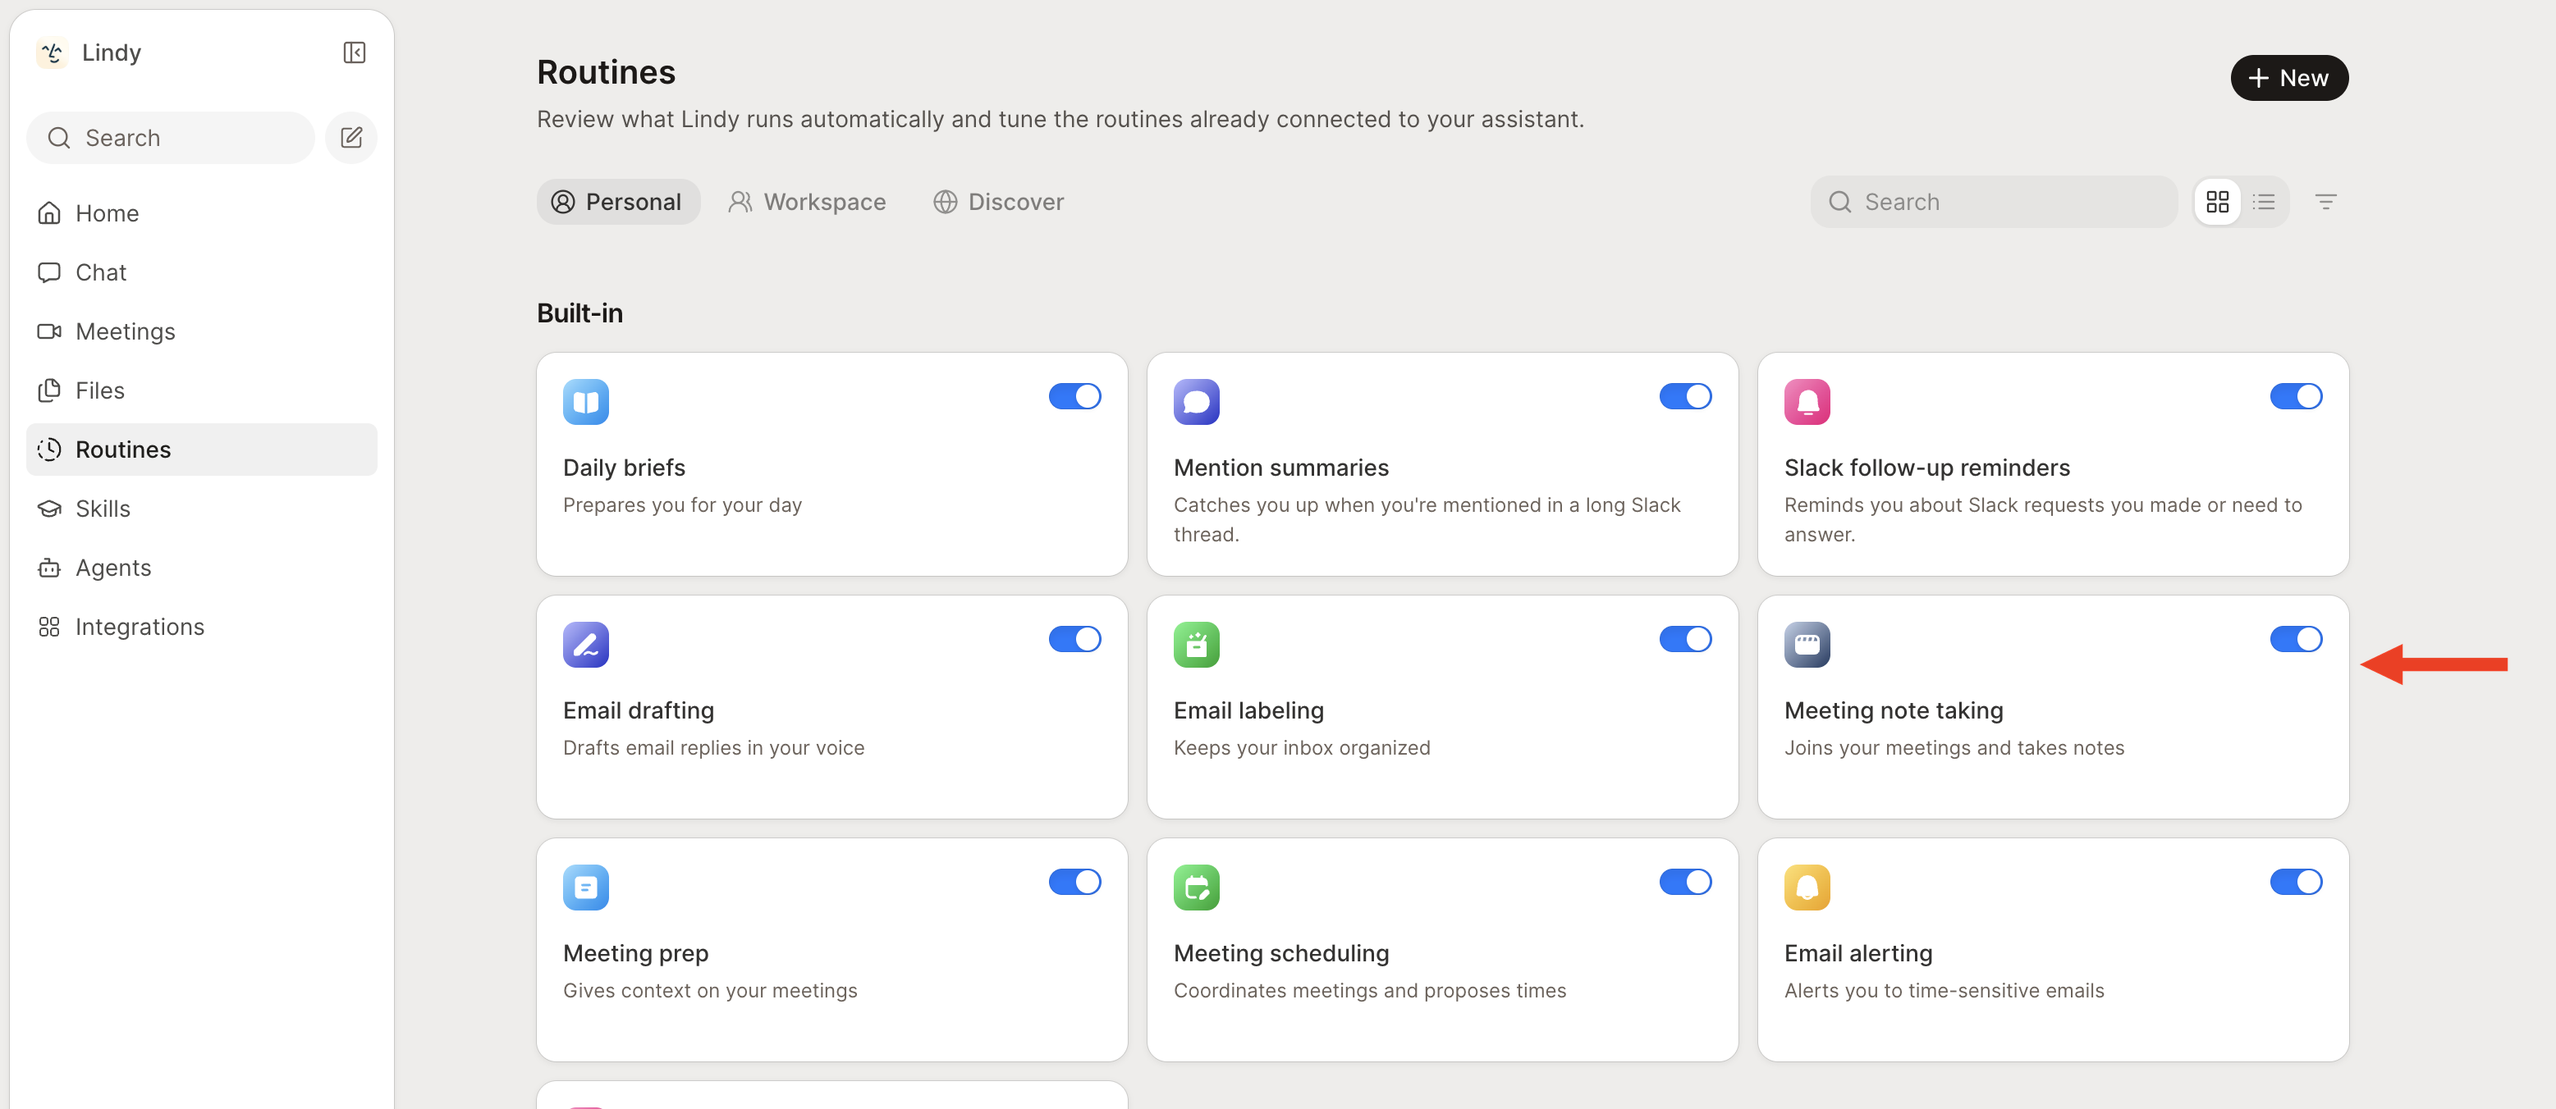
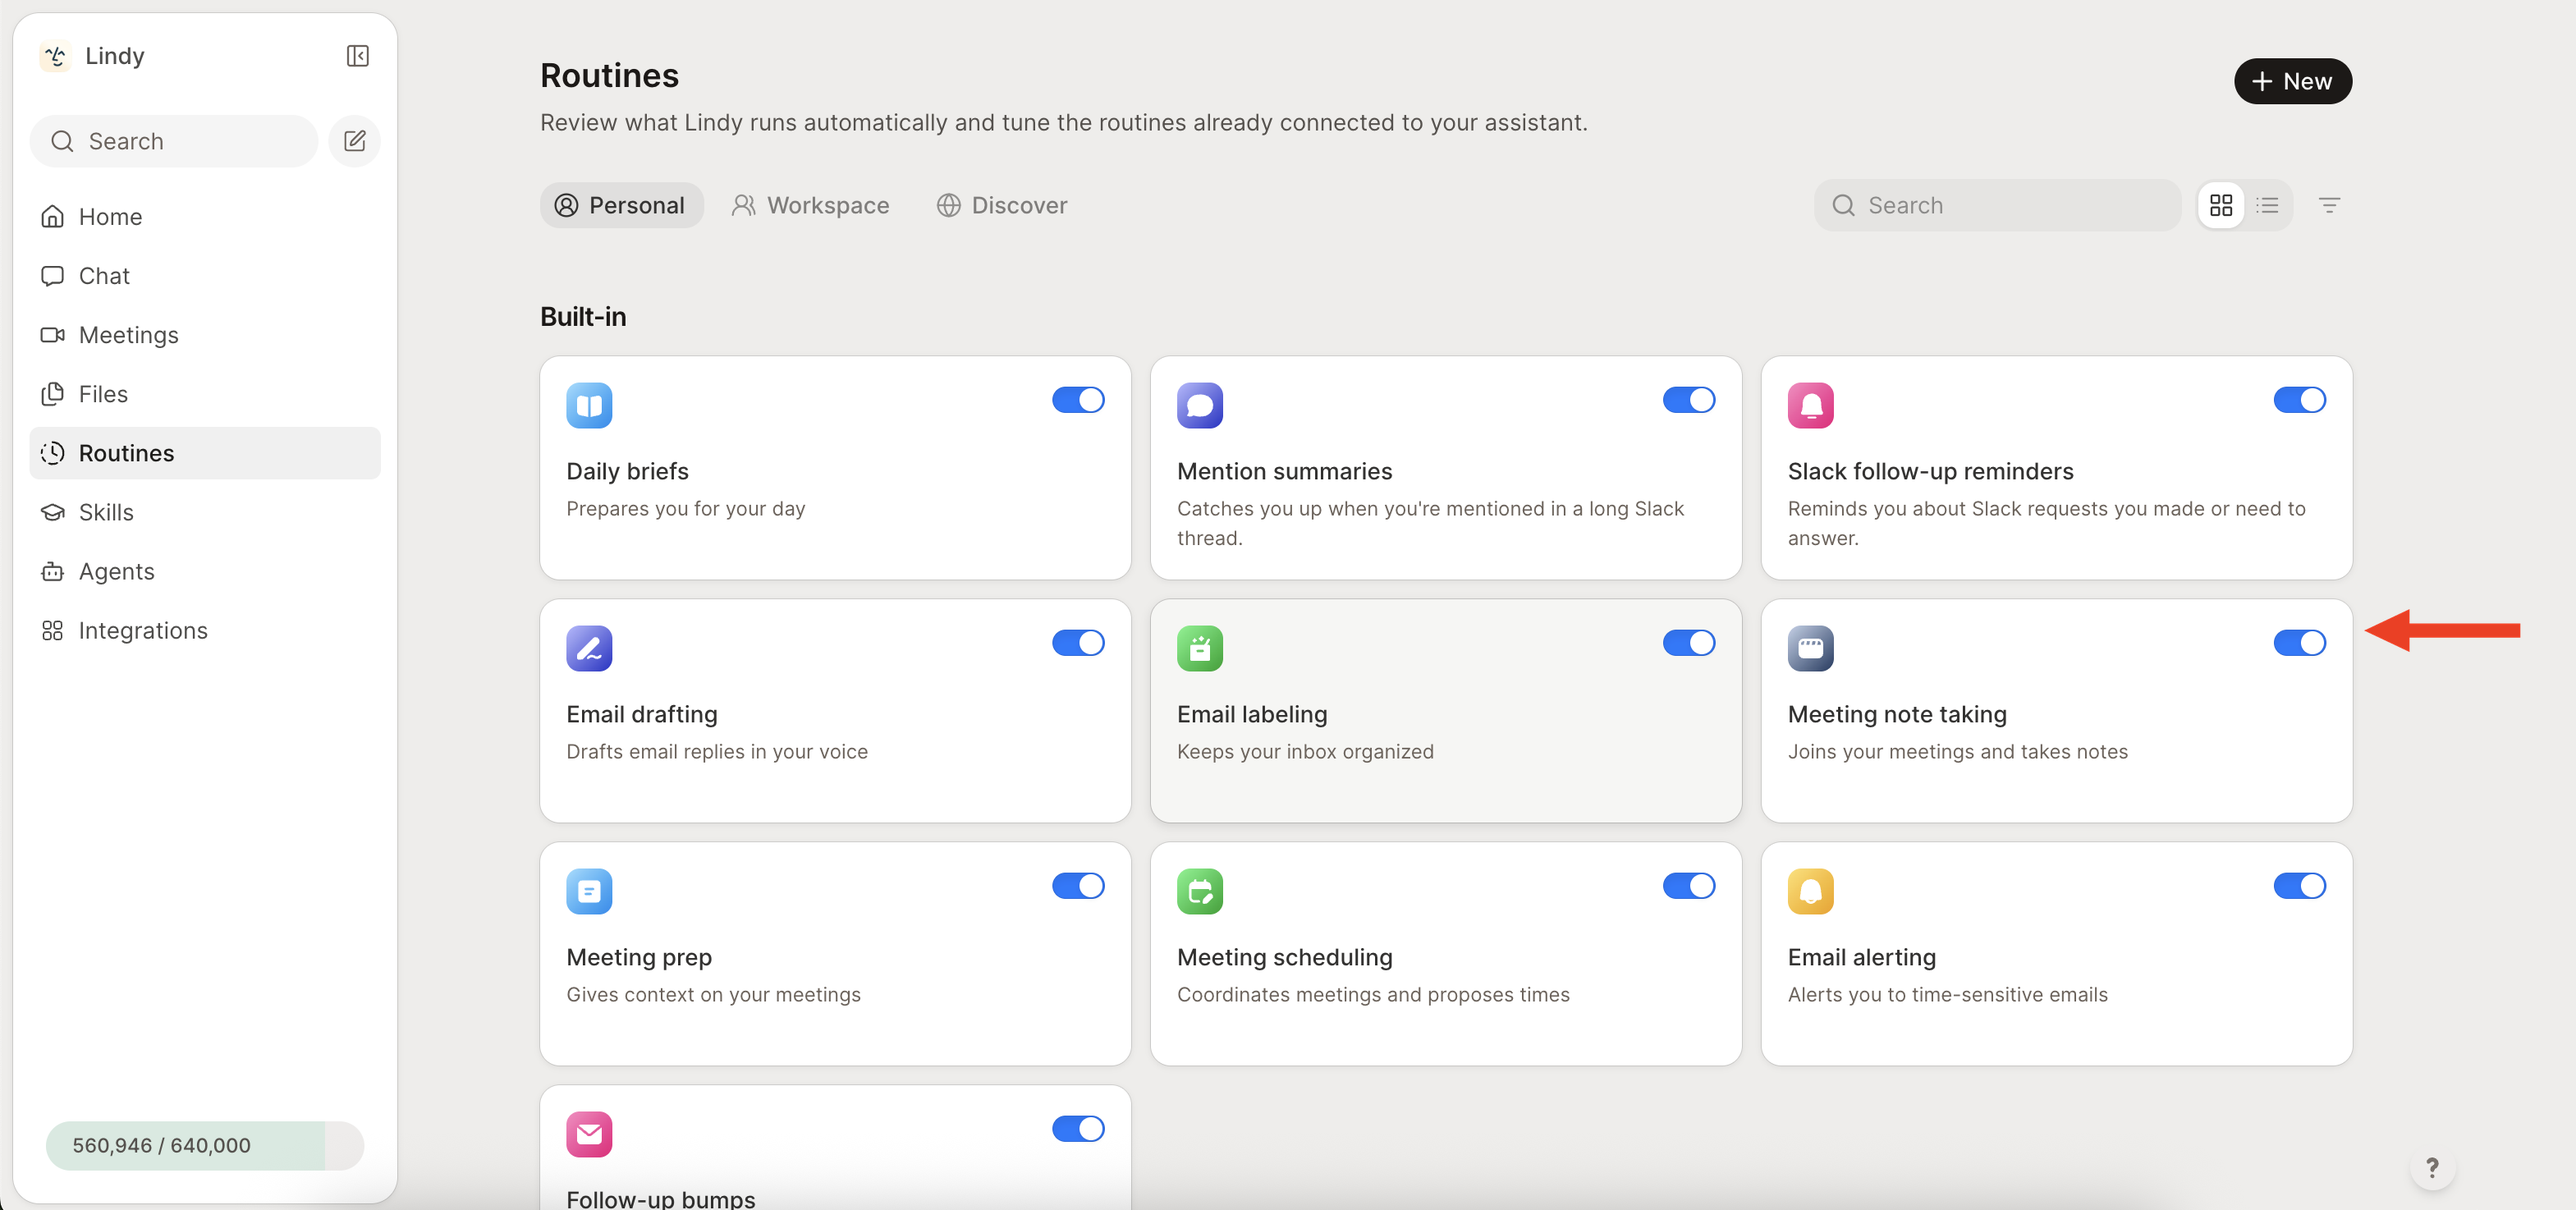
meeting notes: new Routines screenshot with arrow; stop stale img dims letterboxing frames

diff --git a/style.css b/style.css
@@ -1398,6 +1398,11 @@ figure {
 figure img {
   width: 100% !important;
   height: auto !important;
+  /* Mintlify bakes the image's width/height attrs into the <img> at build time.
+     When an asset is swapped for one with a different aspect ratio, those attrs
+     go stale and object-contain letterboxes the new image inside the old box.
+     Deriving the ratio from the actual file instead keeps images full-bleed. */
+  aspect-ratio: auto !important;
   margin: 0 !important;
   padding: 0 !important;
   border: none !important;
